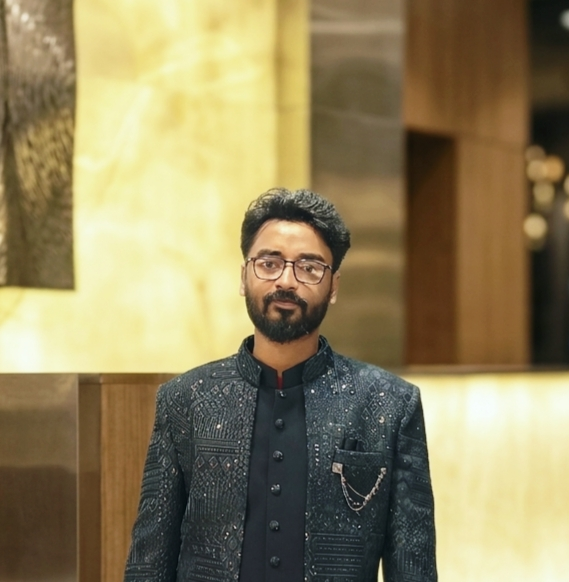
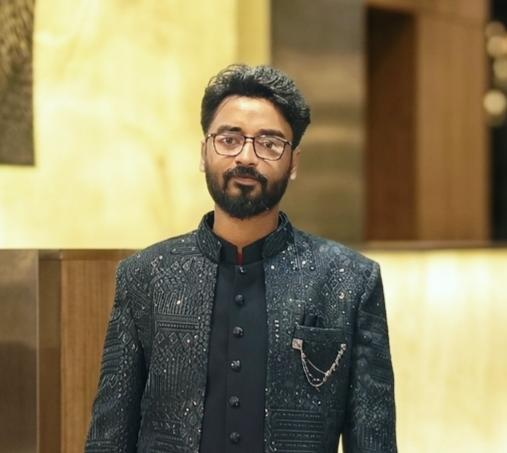
Update groom image with new dimensions and center crop

diff --git a/src/components/CoupleSection.tsx b/src/components/CoupleSection.tsx
@@ -56,7 +56,7 @@ export const CoupleSection: React.FC = () => {
                   <img
                     src="./anuj.jpeg"
                     alt="Anuj Kumar Mahato - The Groom"
-                    className="w-full h-full rounded-full object-cover object-top shadow-inner border-2 border-[#d4af37]/60"
+                    className="w-full h-full rounded-full object-cover object-center shadow-inner border-2 border-[#d4af37]/60"
                     loading="lazy"
                   />
                 </div>
